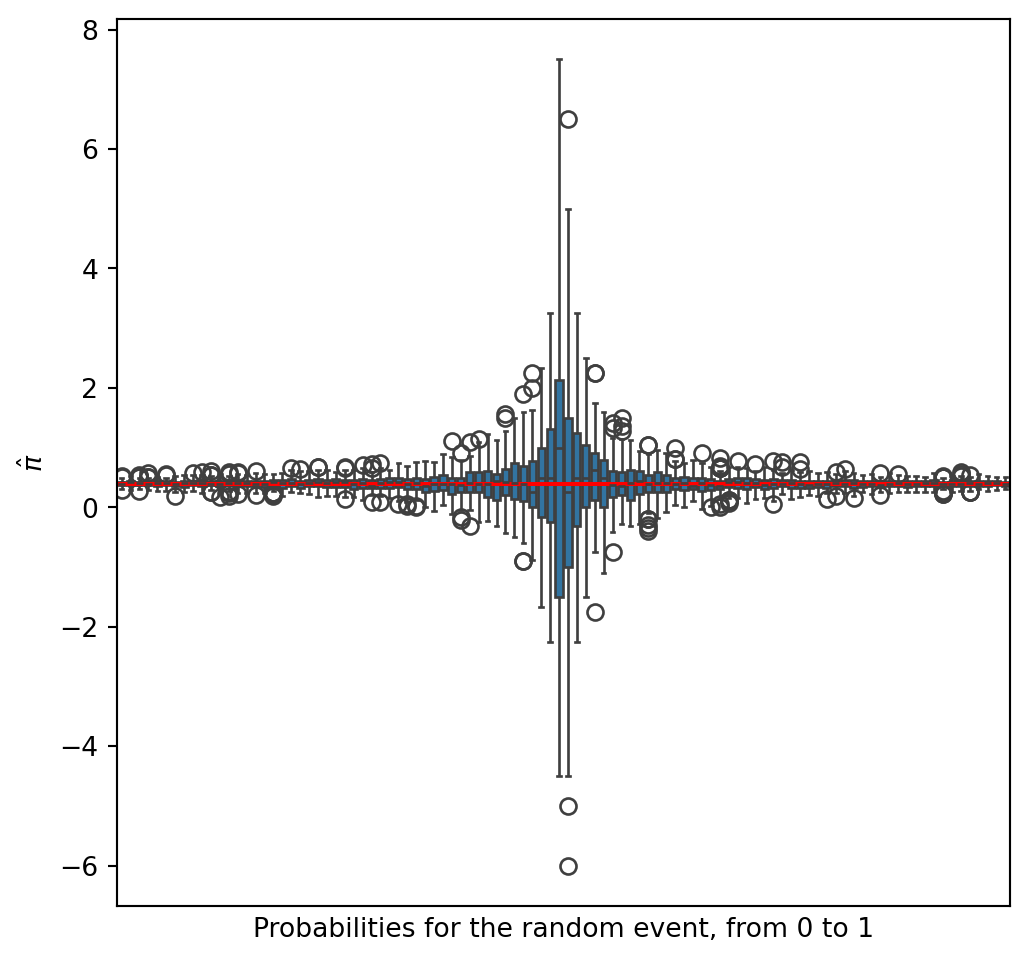
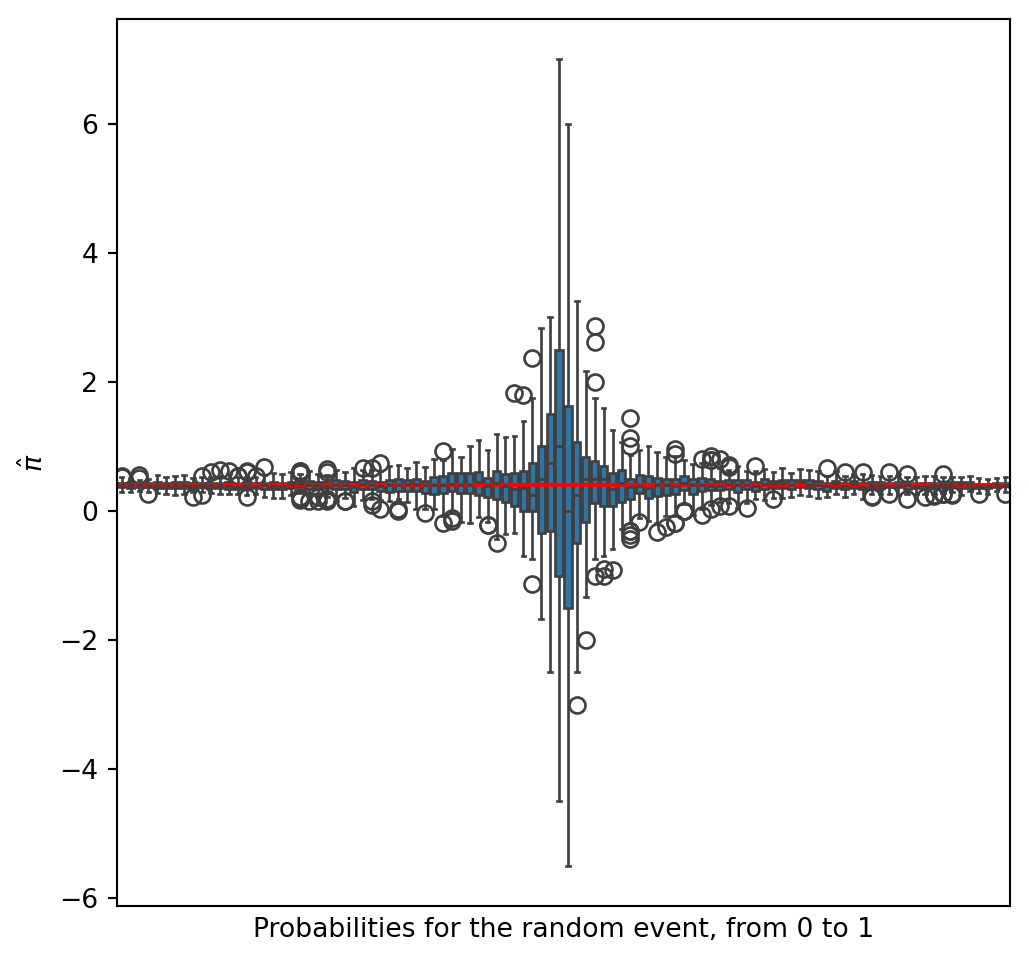
pb liste a puce

diff --git a/docs/posts/2026_01_10_ethics_randomness/index.html b/docs/posts/2026_01_10_ethics_randomness/index.html
@@ -457,7 +457,12 @@ window.Quarto = {
 <p>Randomized Responses are a category of techniques that use randomness to allow the respondent to answer with their true self, while having less or no pressure about answering. The paper i used to get introduced to this field is this review : <span class="citation" data-cites="PDFRandomizedResponse2025">(<a href="#ref-PDFRandomizedResponse2025" role="doc-biblioref"><span>“(<span>PDF</span>) <span>Randomized Response Techniques</span>: <span>A Systematic Review</span> from the <span>Pioneering Work</span> of <span>Warner</span> (1965) to the <span>Present</span>”</span> 2025</a>)</span>, but i am a strong beginner so do not take what i say for truth !</p>
 <p>I will focus on the most simple type of technique is the original idea from <span class="citation" data-cites="warnerRandomizedResponseSurvey1965">(<a href="#ref-warnerRandomizedResponseSurvey1965" role="doc-biblioref">Warner 1965</a>)</span> which propose a binary question to the surveyee.</p>
 <p>We are interested in quantifying the proportion of people belonging to groups A and B. The first step is to make the surveyees take a random experiment only they can observe, the binary random experiment will return either A or B, and the surveyee only has to answer to yes or no depending on wether the random outcome was his/her true group.</p>
-<p>We can do a little simulation : - n : number of surveyees (sample size) - p : parameter of the bernouilli random experiment - <span class="math inline">\(\pi\)</span> : true proportion of people belonging to the sensitive group</p>
+<p>We can do a little simulation :</p>
+<ul>
+<li>n : number of surveyees (sample size)</li>
+<li>p : parameter of the bernouilli random experiment</li>
+<li><span class="math inline">\(\pi\)</span> : true proportion of people belonging to the sensitive group</li>
+</ul>
 </section>
 <section id="stats-recap" class="level2">
 <h2 class="anchored" data-anchor-id="stats-recap">Stats recap</h2>
@@ -465,7 +470,7 @@ window.Quarto = {
 <p><span class="math display">\[P(X_i = 1) = \pi p + (1 - \pi)(1 - p)\]</span> <span class="math display">\[P(X_i = 0) = (1 - \pi)p +  + \pi(1 - p)\]</span></p>
 <p>Which leads to a estimation <span class="citation" data-cites="warnerRandomizedResponseSurvey1965">(see the the original paper from <a href="#ref-warnerRandomizedResponseSurvey1965" role="doc-biblioref">Warner 1965</a> details)</span> :</p>
 <p><span class="math display">\[\hat{\pi} = \frac{p-1}{2p-1} + \frac{n_1}{n(2p - 1)}\]</span></p>
-<div id="355c154d" class="cell" data-execution_count="1">
+<div id="ee974733" class="cell" data-execution_count="1">
 <div class="code-copy-outer-scaffold"><div class="sourceCode cell-code" id="cb1"><pre class="sourceCode python code-with-copy"><code class="sourceCode python"><span id="cb1-1"><a href="#cb1-1" aria-hidden="true" tabindex="-1"></a><span class="im">import</span> numpy <span class="im">as</span> np</span>
 <span id="cb1-2"><a href="#cb1-2" aria-hidden="true" tabindex="-1"></a><span class="im">import</span> matplotlib.pyplot <span class="im">as</span> plt</span>
 <span id="cb1-3"><a href="#cb1-3" aria-hidden="true" tabindex="-1"></a><span class="im">import</span> plotly.express <span class="im">as</span> px</span>
@@ -497,7 +502,7 @@ window.Quarto = {
 <span id="cb1-29"><a href="#cb1-29" aria-hidden="true" tabindex="-1"></a></span>
 <span id="cb1-30"><a href="#cb1-30" aria-hidden="true" tabindex="-1"></a>fig.suptitle(<span class="ss">f"Estimated pi : </span><span class="sc">{</span>pi_hat<span class="sc">:.3f}</span><span class="ss">"</span>)</span></code></pre></div><button title="Copy to Clipboard" class="code-copy-button"><i class="bi"></i></button></div>
 <div class="cell-output cell-output-display" data-execution_count="1">
-<pre><code>Text(0.5, 0.98, 'Estimated pi : 0.395')</code></pre>
+<pre><code>Text(0.5, 0.98, 'Estimated pi : 0.400')</code></pre>
 </div>
 <div class="cell-output cell-output-display">
 <div>
@@ -509,7 +514,7 @@ window.Quarto = {
 </div>
 <p>Oh nice ! We could see on one sample how out maximum likelyhood estimator allows us to recover the true proportion. Let’s see how does the random event probability affect the ability to recover <span class="math inline">\(\pi\)</span>.</p>
 <p>We will run multiple experiments with 100 surveyees.</p>
-<div id="559e5893" class="cell" data-execution_count="2">
+<div id="[phone redacted]" class="cell" data-execution_count="2">
 <div class="code-copy-outer-scaffold"><div class="sourceCode cell-code" id="cb3"><pre class="sourceCode python code-with-copy"><code class="sourceCode python"><span id="cb3-1"><a href="#cb3-1" aria-hidden="true" tabindex="-1"></a><span class="kw">def</span> get_pi_hat(p,n<span class="op">=</span><span class="dv">100</span>,pi<span class="op">=</span> <span class="dv">40</span><span class="op">/</span><span class="dv">100</span>)<span class="op">-&gt;</span><span class="bu">float</span>:</span>
 <span id="cb3-2"><a href="#cb3-2" aria-hidden="true" tabindex="-1"></a>    true_answers <span class="op">=</span> np.random.binomial(<span class="dv">1</span>, pi, n)</span>
 <span id="cb3-3"><a href="#cb3-3" aria-hidden="true" tabindex="-1"></a>    noise <span class="op">=</span> np.random.binomial(<span class="dv">1</span>, p, n)</span>
@@ -1065,111 +1070,112 @@ Warner, Stanley L. 1965. <span>“Randomized <span>Response</span>: <span>A Surv
 <span id="cb5-24"><a href="#cb5-24" aria-hidden="true" tabindex="-1"></a>The first step is to make the surveyees take a random experiment only they can observe, the binary random experiment will return either A or B, and the surveyee only has to answer to yes or no depending on wether the random outcome was his/her true group. </span>
 <span id="cb5-25"><a href="#cb5-25" aria-hidden="true" tabindex="-1"></a></span>
 <span id="cb5-26"><a href="#cb5-26" aria-hidden="true" tabindex="-1"></a>We can do a little simulation : </span>
-<span id="cb5-27"><a href="#cb5-27" aria-hidden="true" tabindex="-1"></a><span class="ss">- </span>n : number of surveyees (sample size)</span>
-<span id="cb5-28"><a href="#cb5-28" aria-hidden="true" tabindex="-1"></a><span class="ss">- </span>p : parameter of the bernouilli random experiment</span>
-<span id="cb5-29"><a href="#cb5-29" aria-hidden="true" tabindex="-1"></a><span class="ss">- </span>$\pi$ : true proportion of people belonging to the sensitive group</span>
-<span id="cb5-30"><a href="#cb5-30" aria-hidden="true" tabindex="-1"></a></span>
-<span id="cb5-31"><a href="#cb5-31" aria-hidden="true" tabindex="-1"></a><span class="fu">## Stats recap</span></span>
-<span id="cb5-32"><a href="#cb5-32" aria-hidden="true" tabindex="-1"></a></span>
-<span id="cb5-33"><a href="#cb5-33" aria-hidden="true" tabindex="-1"></a>Using the noise change the estimation and the probability of the answers of the surveyees is as follow : </span>
-<span id="cb5-34"><a href="#cb5-34" aria-hidden="true" tabindex="-1"></a></span>
-<span id="cb5-35"><a href="#cb5-35" aria-hidden="true" tabindex="-1"></a>$$P(X_i = 1) = \pi p + (1 - \pi)(1 - p)$$</span>
-<span id="cb5-36"><a href="#cb5-36" aria-hidden="true" tabindex="-1"></a>$$P(X_i = 0) = (1 - \pi)p +  + \pi(1 - p)$$</span>
-<span id="cb5-37"><a href="#cb5-37" aria-hidden="true" tabindex="-1"></a></span>
+<span id="cb5-27"><a href="#cb5-27" aria-hidden="true" tabindex="-1"></a></span>
+<span id="cb5-28"><a href="#cb5-28" aria-hidden="true" tabindex="-1"></a><span class="ss">- </span>n : number of surveyees (sample size)</span>
+<span id="cb5-29"><a href="#cb5-29" aria-hidden="true" tabindex="-1"></a><span class="ss">- </span>p : parameter of the bernouilli random experiment</span>
+<span id="cb5-30"><a href="#cb5-30" aria-hidden="true" tabindex="-1"></a><span class="ss">- </span>$\pi$ : true proportion of people belonging to the sensitive group</span>
+<span id="cb5-31"><a href="#cb5-31" aria-hidden="true" tabindex="-1"></a></span>
+<span id="cb5-32"><a href="#cb5-32" aria-hidden="true" tabindex="-1"></a><span class="fu">## Stats recap</span></span>
+<span id="cb5-33"><a href="#cb5-33" aria-hidden="true" tabindex="-1"></a></span>
+<span id="cb5-34"><a href="#cb5-34" aria-hidden="true" tabindex="-1"></a>Using the noise change the estimation and the probability of the answers of the surveyees is as follow : </span>
+<span id="cb5-35"><a href="#cb5-35" aria-hidden="true" tabindex="-1"></a></span>
+<span id="cb5-36"><a href="#cb5-36" aria-hidden="true" tabindex="-1"></a>$$P(X_i = 1) = \pi p + (1 - \pi)(1 - p)$$</span>
+<span id="cb5-37"><a href="#cb5-37" aria-hidden="true" tabindex="-1"></a>$$P(X_i = 0) = (1 - \pi)p +  + \pi(1 - p)$$</span>
 <span id="cb5-38"><a href="#cb5-38" aria-hidden="true" tabindex="-1"></a></span>
-<span id="cb5-39"><a href="#cb5-39" aria-hidden="true" tabindex="-1"></a>Which leads to a estimation <span class="co">[</span><span class="ot">see the the original paper from @warnerRandomizedResponseSurvey1965 details</span><span class="co">]</span> :</span>
-<span id="cb5-40"><a href="#cb5-40" aria-hidden="true" tabindex="-1"></a></span>
-<span id="cb5-41"><a href="#cb5-41" aria-hidden="true" tabindex="-1"></a>$$\hat{\pi} = \frac{p-1}{2p-1} + \frac{n_1}{n(2p - 1)}$$</span>
-<span id="cb5-42"><a href="#cb5-42" aria-hidden="true" tabindex="-1"></a></span>
+<span id="cb5-39"><a href="#cb5-39" aria-hidden="true" tabindex="-1"></a></span>
+<span id="cb5-40"><a href="#cb5-40" aria-hidden="true" tabindex="-1"></a>Which leads to a estimation <span class="co">[</span><span class="ot">see the the original paper from @warnerRandomizedResponseSurvey1965 details</span><span class="co">]</span> :</span>
+<span id="cb5-41"><a href="#cb5-41" aria-hidden="true" tabindex="-1"></a></span>
+<span id="cb5-42"><a href="#cb5-42" aria-hidden="true" tabindex="-1"></a>$$\hat{\pi} = \frac{p-1}{2p-1} + \frac{n_1}{n(2p - 1)}$$</span>
 <span id="cb5-43"><a href="#cb5-43" aria-hidden="true" tabindex="-1"></a></span>
-<span id="cb5-46"><a href="#cb5-46" aria-hidden="true" tabindex="-1"></a><span class="in">```{python}</span></span>
-<span id="cb5-47"><a href="#cb5-47" aria-hidden="true" tabindex="-1"></a><span class="im">import</span> numpy <span class="im">as</span> np</span>
-<span id="cb5-48"><a href="#cb5-48" aria-hidden="true" tabindex="-1"></a><span class="im">import</span> matplotlib.pyplot <span class="im">as</span> plt</span>
-<span id="cb5-49"><a href="#cb5-49" aria-hidden="true" tabindex="-1"></a><span class="im">import</span> plotly.express <span class="im">as</span> px</span>
-<span id="cb5-50"><a href="#cb5-50" aria-hidden="true" tabindex="-1"></a><span class="im">import</span> pandas <span class="im">as</span> pd</span>
-<span id="cb5-51"><a href="#cb5-51" aria-hidden="true" tabindex="-1"></a><span class="im">import</span> seaborn <span class="im">as</span> sns</span>
-<span id="cb5-52"><a href="#cb5-52" aria-hidden="true" tabindex="-1"></a>n <span class="op">=</span> <span class="dv">1000</span></span>
-<span id="cb5-53"><a href="#cb5-53" aria-hidden="true" tabindex="-1"></a>p <span class="op">=</span> <span class="dv">1</span><span class="op">/</span><span class="dv">6</span> <span class="co">#(dice roll)</span></span>
-<span id="cb5-54"><a href="#cb5-54" aria-hidden="true" tabindex="-1"></a>pi <span class="op">=</span> <span class="dv">40</span><span class="op">/</span><span class="dv">100</span></span>
-<span id="cb5-55"><a href="#cb5-55" aria-hidden="true" tabindex="-1"></a></span>
+<span id="cb5-44"><a href="#cb5-44" aria-hidden="true" tabindex="-1"></a></span>
+<span id="cb5-47"><a href="#cb5-47" aria-hidden="true" tabindex="-1"></a><span class="in">```{python}</span></span>
+<span id="cb5-48"><a href="#cb5-48" aria-hidden="true" tabindex="-1"></a><span class="im">import</span> numpy <span class="im">as</span> np</span>
+<span id="cb5-49"><a href="#cb5-49" aria-hidden="true" tabindex="-1"></a><span class="im">import</span> matplotlib.pyplot <span class="im">as</span> plt</span>
+<span id="cb5-50"><a href="#cb5-50" aria-hidden="true" tabindex="-1"></a><span class="im">import</span> plotly.express <span class="im">as</span> px</span>
+<span id="cb5-51"><a href="#cb5-51" aria-hidden="true" tabindex="-1"></a><span class="im">import</span> pandas <span class="im">as</span> pd</span>
+<span id="cb5-52"><a href="#cb5-52" aria-hidden="true" tabindex="-1"></a><span class="im">import</span> seaborn <span class="im">as</span> sns</span>
+<span id="cb5-53"><a href="#cb5-53" aria-hidden="true" tabindex="-1"></a>n <span class="op">=</span> <span class="dv">1000</span></span>
+<span id="cb5-54"><a href="#cb5-54" aria-hidden="true" tabindex="-1"></a>p <span class="op">=</span> <span class="dv">1</span><span class="op">/</span><span class="dv">6</span> <span class="co">#(dice roll)</span></span>
+<span id="cb5-55"><a href="#cb5-55" aria-hidden="true" tabindex="-1"></a>pi <span class="op">=</span> <span class="dv">40</span><span class="op">/</span><span class="dv">100</span></span>
 <span id="cb5-56"><a href="#cb5-56" aria-hidden="true" tabindex="-1"></a></span>
 <span id="cb5-57"><a href="#cb5-57" aria-hidden="true" tabindex="-1"></a></span>
-<span id="cb5-58"><a href="#cb5-58" aria-hidden="true" tabindex="-1"></a>true_answers <span class="op">=</span> np.random.binomial(<span class="dv">1</span>, pi, n)</span>
-<span id="cb5-59"><a href="#cb5-59" aria-hidden="true" tabindex="-1"></a>noise <span class="op">=</span> np.random.binomial(<span class="dv">1</span>, p, n) </span>
-<span id="cb5-60"><a href="#cb5-60" aria-hidden="true" tabindex="-1"></a></span>
-<span id="cb5-61"><a href="#cb5-61" aria-hidden="true" tabindex="-1"></a>final_answer <span class="op">=</span> (noise <span class="op">==</span> true_answers).astype(<span class="bu">int</span>)</span>
-<span id="cb5-62"><a href="#cb5-62" aria-hidden="true" tabindex="-1"></a>n1 <span class="op">=</span> final_answer.<span class="bu">sum</span>()</span>
-<span id="cb5-63"><a href="#cb5-63" aria-hidden="true" tabindex="-1"></a></span>
-<span id="cb5-64"><a href="#cb5-64" aria-hidden="true" tabindex="-1"></a>pi_hat <span class="op">=</span> (p<span class="op">-</span><span class="dv">1</span>)<span class="op">/</span>(<span class="dv">2</span><span class="op">*</span>p <span class="op">-</span> <span class="dv">1</span>) <span class="op">+</span> (n1)<span class="op">/</span>(n<span class="op">*</span>(<span class="dv">2</span><span class="op">*</span>p <span class="op">-</span> <span class="dv">1</span>))</span>
-<span id="cb5-65"><a href="#cb5-65" aria-hidden="true" tabindex="-1"></a></span>
+<span id="cb5-58"><a href="#cb5-58" aria-hidden="true" tabindex="-1"></a></span>
+<span id="cb5-59"><a href="#cb5-59" aria-hidden="true" tabindex="-1"></a>true_answers <span class="op">=</span> np.random.binomial(<span class="dv">1</span>, pi, n)</span>
+<span id="cb5-60"><a href="#cb5-60" aria-hidden="true" tabindex="-1"></a>noise <span class="op">=</span> np.random.binomial(<span class="dv">1</span>, p, n) </span>
+<span id="cb5-61"><a href="#cb5-61" aria-hidden="true" tabindex="-1"></a></span>
+<span id="cb5-62"><a href="#cb5-62" aria-hidden="true" tabindex="-1"></a>final_answer <span class="op">=</span> (noise <span class="op">==</span> true_answers).astype(<span class="bu">int</span>)</span>
+<span id="cb5-63"><a href="#cb5-63" aria-hidden="true" tabindex="-1"></a>n1 <span class="op">=</span> final_answer.<span class="bu">sum</span>()</span>
+<span id="cb5-64"><a href="#cb5-64" aria-hidden="true" tabindex="-1"></a></span>
+<span id="cb5-65"><a href="#cb5-65" aria-hidden="true" tabindex="-1"></a>pi_hat <span class="op">=</span> (p<span class="op">-</span><span class="dv">1</span>)<span class="op">/</span>(<span class="dv">2</span><span class="op">*</span>p <span class="op">-</span> <span class="dv">1</span>) <span class="op">+</span> (n1)<span class="op">/</span>(n<span class="op">*</span>(<span class="dv">2</span><span class="op">*</span>p <span class="op">-</span> <span class="dv">1</span>))</span>
 <span id="cb5-66"><a href="#cb5-66" aria-hidden="true" tabindex="-1"></a></span>
 <span id="cb5-67"><a href="#cb5-67" aria-hidden="true" tabindex="-1"></a></span>
-<span id="cb5-68"><a href="#cb5-68" aria-hidden="true" tabindex="-1"></a>fig, axs <span class="op">=</span> plt.subplots(nrows<span class="op">=</span> <span class="dv">1</span>, ncols<span class="op">=</span><span class="dv">3</span>, figsize <span class="op">=</span> (<span class="dv">9</span>, <span class="dv">5</span>))</span>
-<span id="cb5-69"><a href="#cb5-69" aria-hidden="true" tabindex="-1"></a>axs[<span class="dv">0</span>].hist(noise)</span>
-<span id="cb5-70"><a href="#cb5-70" aria-hidden="true" tabindex="-1"></a>axs[<span class="dv">0</span>].set_title(<span class="ss">f"Noise </span><span class="sc">{</span>noise<span class="sc">.</span>mean()<span class="sc">}</span><span class="ss">"</span>)</span>
-<span id="cb5-71"><a href="#cb5-71" aria-hidden="true" tabindex="-1"></a>axs[<span class="dv">1</span>].hist(true_answers)</span>
-<span id="cb5-72"><a href="#cb5-72" aria-hidden="true" tabindex="-1"></a>axs[<span class="dv">1</span>].set_title(<span class="ss">f"True answers : </span><span class="sc">{</span>true_answers<span class="sc">.</span>mean()<span class="sc">}</span><span class="ss">"</span>)</span>
-<span id="cb5-73"><a href="#cb5-73" aria-hidden="true" tabindex="-1"></a>axs[<span class="dv">2</span>].hist(final_answer)</span>
-<span id="cb5-74"><a href="#cb5-74" aria-hidden="true" tabindex="-1"></a>axs[<span class="dv">2</span>].set_title(<span class="ss">f"Final answers : </span><span class="sc">{</span>final_answer<span class="sc">.</span>mean()<span class="sc">}</span><span class="ss">"</span>)</span>
-<span id="cb5-75"><a href="#cb5-75" aria-hidden="true" tabindex="-1"></a></span>
-<span id="cb5-76"><a href="#cb5-76" aria-hidden="true" tabindex="-1"></a>fig.suptitle(<span class="ss">f"Estimated pi : </span><span class="sc">{</span>pi_hat<span class="sc">:.3f}</span><span class="ss">"</span>)</span>
-<span id="cb5-77"><a href="#cb5-77" aria-hidden="true" tabindex="-1"></a><span class="in">```</span></span>
-<span id="cb5-78"><a href="#cb5-78" aria-hidden="true" tabindex="-1"></a></span>
-<span id="cb5-79"><a href="#cb5-79" aria-hidden="true" tabindex="-1"></a>Oh nice ! </span>
-<span id="cb5-80"><a href="#cb5-80" aria-hidden="true" tabindex="-1"></a>We could see on one sample how out maximum likelyhood estimator allows us to recover the true proportion. </span>
-<span id="cb5-81"><a href="#cb5-81" aria-hidden="true" tabindex="-1"></a>Let's see how does the random event probability affect the ability to recover $\pi$.</span>
-<span id="cb5-82"><a href="#cb5-82" aria-hidden="true" tabindex="-1"></a></span>
-<span id="cb5-83"><a href="#cb5-83" aria-hidden="true" tabindex="-1"></a>We will run multiple experiments with 100 surveyees.</span>
-<span id="cb5-84"><a href="#cb5-84" aria-hidden="true" tabindex="-1"></a></span>
+<span id="cb5-68"><a href="#cb5-68" aria-hidden="true" tabindex="-1"></a></span>
+<span id="cb5-69"><a href="#cb5-69" aria-hidden="true" tabindex="-1"></a>fig, axs <span class="op">=</span> plt.subplots(nrows<span class="op">=</span> <span class="dv">1</span>, ncols<span class="op">=</span><span class="dv">3</span>, figsize <span class="op">=</span> (<span class="dv">9</span>, <span class="dv">5</span>))</span>
+<span id="cb5-70"><a href="#cb5-70" aria-hidden="true" tabindex="-1"></a>axs[<span class="dv">0</span>].hist(noise)</span>
+<span id="cb5-71"><a href="#cb5-71" aria-hidden="true" tabindex="-1"></a>axs[<span class="dv">0</span>].set_title(<span class="ss">f"Noise </span><span class="sc">{</span>noise<span class="sc">.</span>mean()<span class="sc">}</span><span class="ss">"</span>)</span>
+<span id="cb5-72"><a href="#cb5-72" aria-hidden="true" tabindex="-1"></a>axs[<span class="dv">1</span>].hist(true_answers)</span>
+<span id="cb5-73"><a href="#cb5-73" aria-hidden="true" tabindex="-1"></a>axs[<span class="dv">1</span>].set_title(<span class="ss">f"True answers : </span><span class="sc">{</span>true_answers<span class="sc">.</span>mean()<span class="sc">}</span><span class="ss">"</span>)</span>
+<span id="cb5-74"><a href="#cb5-74" aria-hidden="true" tabindex="-1"></a>axs[<span class="dv">2</span>].hist(final_answer)</span>
+<span id="cb5-75"><a href="#cb5-75" aria-hidden="true" tabindex="-1"></a>axs[<span class="dv">2</span>].set_title(<span class="ss">f"Final answers : </span><span class="sc">{</span>final_answer<span class="sc">.</span>mean()<span class="sc">}</span><span class="ss">"</span>)</span>
+<span id="cb5-76"><a href="#cb5-76" aria-hidden="true" tabindex="-1"></a></span>
+<span id="cb5-77"><a href="#cb5-77" aria-hidden="true" tabindex="-1"></a>fig.suptitle(<span class="ss">f"Estimated pi : </span><span class="sc">{</span>pi_hat<span class="sc">:.3f}</span><span class="ss">"</span>)</span>
+<span id="cb5-78"><a href="#cb5-78" aria-hidden="true" tabindex="-1"></a><span class="in">```</span></span>
+<span id="cb5-79"><a href="#cb5-79" aria-hidden="true" tabindex="-1"></a></span>
+<span id="cb5-80"><a href="#cb5-80" aria-hidden="true" tabindex="-1"></a>Oh nice ! </span>
+<span id="cb5-81"><a href="#cb5-81" aria-hidden="true" tabindex="-1"></a>We could see on one sample how out maximum likelyhood estimator allows us to recover the true proportion. </span>
+<span id="cb5-82"><a href="#cb5-82" aria-hidden="true" tabindex="-1"></a>Let's see how does the random event probability affect the ability to recover $\pi$.</span>
+<span id="cb5-83"><a href="#cb5-83" aria-hidden="true" tabindex="-1"></a></span>
+<span id="cb5-84"><a href="#cb5-84" aria-hidden="true" tabindex="-1"></a>We will run multiple experiments with 100 surveyees.</span>
 <span id="cb5-85"><a href="#cb5-85" aria-hidden="true" tabindex="-1"></a></span>
-<span id="cb5-88"><a href="#cb5-88" aria-hidden="true" tabindex="-1"></a><span class="in">```{python}</span></span>
-<span id="cb5-89"><a href="#cb5-89" aria-hidden="true" tabindex="-1"></a><span class="co">#| code-fold: false</span></span>
-<span id="cb5-90"><a href="#cb5-90" aria-hidden="true" tabindex="-1"></a><span class="kw">def</span> get_pi_hat(p,n<span class="op">=</span><span class="dv">100</span>,pi<span class="op">=</span> <span class="dv">40</span><span class="op">/</span><span class="dv">100</span>)<span class="op">-&gt;</span><span class="bu">float</span>:</span>
-<span id="cb5-91"><a href="#cb5-91" aria-hidden="true" tabindex="-1"></a>    true_answers <span class="op">=</span> np.random.binomial(<span class="dv">1</span>, pi, n)</span>
-<span id="cb5-92"><a href="#cb5-92" aria-hidden="true" tabindex="-1"></a>    noise <span class="op">=</span> np.random.binomial(<span class="dv">1</span>, p, n)</span>
-<span id="cb5-93"><a href="#cb5-93" aria-hidden="true" tabindex="-1"></a></span>
-<span id="cb5-94"><a href="#cb5-94" aria-hidden="true" tabindex="-1"></a>    final_answer <span class="op">=</span> (noise <span class="op">==</span> true_answers).astype(<span class="bu">int</span>)</span>
-<span id="cb5-95"><a href="#cb5-95" aria-hidden="true" tabindex="-1"></a>    n1 <span class="op">=</span> final_answer.<span class="bu">sum</span>()</span>
-<span id="cb5-96"><a href="#cb5-96" aria-hidden="true" tabindex="-1"></a></span>
-<span id="cb5-97"><a href="#cb5-97" aria-hidden="true" tabindex="-1"></a>    pi_hat <span class="op">=</span> (p<span class="op">-</span><span class="dv">1</span>)<span class="op">/</span>(<span class="dv">2</span><span class="op">*</span>p <span class="op">-</span> <span class="dv">1</span>) <span class="op">+</span> (n1)<span class="op">/</span>(n<span class="op">*</span>(<span class="dv">2</span><span class="op">*</span>p <span class="op">-</span> <span class="dv">1</span>))</span>
-<span id="cb5-98"><a href="#cb5-98" aria-hidden="true" tabindex="-1"></a>    <span class="cf">return</span> pi_hat</span>
-<span id="cb5-99"><a href="#cb5-99" aria-hidden="true" tabindex="-1"></a></span>
-<span id="cb5-100"><a href="#cb5-100" aria-hidden="true" tabindex="-1"></a>num_ps <span class="op">=</span> <span class="dv">100</span></span>
-<span id="cb5-101"><a href="#cb5-101" aria-hidden="true" tabindex="-1"></a>mc_iter <span class="op">=</span>  <span class="dv">100</span></span>
-<span id="cb5-102"><a href="#cb5-102" aria-hidden="true" tabindex="-1"></a>ps <span class="op">=</span> np.zeros(num_ps <span class="op">*</span> mc_iter)</span>
-<span id="cb5-103"><a href="#cb5-103" aria-hidden="true" tabindex="-1"></a>pihats <span class="op">=</span> np.zeros(num_ps <span class="op">*</span> mc_iter)</span>
-<span id="cb5-104"><a href="#cb5-104" aria-hidden="true" tabindex="-1"></a>pi <span class="op">=</span> <span class="dv">40</span><span class="op">/</span><span class="dv">100</span></span>
-<span id="cb5-105"><a href="#cb5-105" aria-hidden="true" tabindex="-1"></a>i <span class="op">=</span> <span class="dv">0</span></span>
-<span id="cb5-106"><a href="#cb5-106" aria-hidden="true" tabindex="-1"></a><span class="cf">for</span> p <span class="kw">in</span> np.linspace(<span class="dv">0</span>, <span class="dv">1</span>, num_ps).<span class="bu">round</span>(<span class="dv">2</span>):</span>
-<span id="cb5-107"><a href="#cb5-107" aria-hidden="true" tabindex="-1"></a>    <span class="cf">for</span> mc <span class="kw">in</span> <span class="bu">range</span>(mc_iter):</span>
-<span id="cb5-108"><a href="#cb5-108" aria-hidden="true" tabindex="-1"></a>        pihats[i] <span class="op">=</span> get_pi_hat(p, pi <span class="op">=</span> pi)</span>
-<span id="cb5-109"><a href="#cb5-109" aria-hidden="true" tabindex="-1"></a>        ps[i] <span class="op">=</span> p</span>
-<span id="cb5-110"><a href="#cb5-110" aria-hidden="true" tabindex="-1"></a>        i<span class="op">+=</span> <span class="dv">1</span></span>
-<span id="cb5-111"><a href="#cb5-111" aria-hidden="true" tabindex="-1"></a></span>
-<span id="cb5-112"><a href="#cb5-112" aria-hidden="true" tabindex="-1"></a>df<span class="op">=</span> pd.DataFrame({</span>
-<span id="cb5-113"><a href="#cb5-113" aria-hidden="true" tabindex="-1"></a>    <span class="st">"ps"</span> : ps,</span>
-<span id="cb5-114"><a href="#cb5-114" aria-hidden="true" tabindex="-1"></a>    <span class="st">"pihats"</span> : pihats</span>
-<span id="cb5-115"><a href="#cb5-115" aria-hidden="true" tabindex="-1"></a>})</span>
-<span id="cb5-116"><a href="#cb5-116" aria-hidden="true" tabindex="-1"></a></span>
-<span id="cb5-117"><a href="#cb5-117" aria-hidden="true" tabindex="-1"></a>plt.figure(figsize<span class="op">=</span>(<span class="dv">6</span>,<span class="dv">6</span>))</span>
-<span id="cb5-118"><a href="#cb5-118" aria-hidden="true" tabindex="-1"></a>sns.boxplot(df, x<span class="op">=</span><span class="st">"ps"</span>, y<span class="op">=</span><span class="st">"pihats"</span>)</span>
-<span id="cb5-119"><a href="#cb5-119" aria-hidden="true" tabindex="-1"></a>plt.axhline(pi, c<span class="op">=</span><span class="st">"red"</span>)</span>
-<span id="cb5-120"><a href="#cb5-120" aria-hidden="true" tabindex="-1"></a>plt.xlabel(<span class="st">"Probabilities for the random event, from 0 to 1"</span>)</span>
-<span id="cb5-121"><a href="#cb5-121" aria-hidden="true" tabindex="-1"></a>plt.xticks([])</span>
-<span id="cb5-122"><a href="#cb5-122" aria-hidden="true" tabindex="-1"></a>plt.ylabel(<span class="st">"$</span><span class="ch">\\</span><span class="st">hat{</span><span class="ch">\\</span><span class="st">pi}$"</span>)</span>
-<span id="cb5-123"><a href="#cb5-123" aria-hidden="true" tabindex="-1"></a><span class="in">```</span></span>
-<span id="cb5-124"><a href="#cb5-124" aria-hidden="true" tabindex="-1"></a></span>
+<span id="cb5-86"><a href="#cb5-86" aria-hidden="true" tabindex="-1"></a></span>
+<span id="cb5-89"><a href="#cb5-89" aria-hidden="true" tabindex="-1"></a><span class="in">```{python}</span></span>
+<span id="cb5-90"><a href="#cb5-90" aria-hidden="true" tabindex="-1"></a><span class="co">#| code-fold: false</span></span>
+<span id="cb5-91"><a href="#cb5-91" aria-hidden="true" tabindex="-1"></a><span class="kw">def</span> get_pi_hat(p,n<span class="op">=</span><span class="dv">100</span>,pi<span class="op">=</span> <span class="dv">40</span><span class="op">/</span><span class="dv">100</span>)<span class="op">-&gt;</span><span class="bu">float</span>:</span>
+<span id="cb5-92"><a href="#cb5-92" aria-hidden="true" tabindex="-1"></a>    true_answers <span class="op">=</span> np.random.binomial(<span class="dv">1</span>, pi, n)</span>
+<span id="cb5-93"><a href="#cb5-93" aria-hidden="true" tabindex="-1"></a>    noise <span class="op">=</span> np.random.binomial(<span class="dv">1</span>, p, n)</span>
+<span id="cb5-94"><a href="#cb5-94" aria-hidden="true" tabindex="-1"></a></span>
+<span id="cb5-95"><a href="#cb5-95" aria-hidden="true" tabindex="-1"></a>    final_answer <span class="op">=</span> (noise <span class="op">==</span> true_answers).astype(<span class="bu">int</span>)</span>
+<span id="cb5-96"><a href="#cb5-96" aria-hidden="true" tabindex="-1"></a>    n1 <span class="op">=</span> final_answer.<span class="bu">sum</span>()</span>
+<span id="cb5-97"><a href="#cb5-97" aria-hidden="true" tabindex="-1"></a></span>
+<span id="cb5-98"><a href="#cb5-98" aria-hidden="true" tabindex="-1"></a>    pi_hat <span class="op">=</span> (p<span class="op">-</span><span class="dv">1</span>)<span class="op">/</span>(<span class="dv">2</span><span class="op">*</span>p <span class="op">-</span> <span class="dv">1</span>) <span class="op">+</span> (n1)<span class="op">/</span>(n<span class="op">*</span>(<span class="dv">2</span><span class="op">*</span>p <span class="op">-</span> <span class="dv">1</span>))</span>
+<span id="cb5-99"><a href="#cb5-99" aria-hidden="true" tabindex="-1"></a>    <span class="cf">return</span> pi_hat</span>
+<span id="cb5-100"><a href="#cb5-100" aria-hidden="true" tabindex="-1"></a></span>
+<span id="cb5-101"><a href="#cb5-101" aria-hidden="true" tabindex="-1"></a>num_ps <span class="op">=</span> <span class="dv">100</span></span>
+<span id="cb5-102"><a href="#cb5-102" aria-hidden="true" tabindex="-1"></a>mc_iter <span class="op">=</span>  <span class="dv">100</span></span>
+<span id="cb5-103"><a href="#cb5-103" aria-hidden="true" tabindex="-1"></a>ps <span class="op">=</span> np.zeros(num_ps <span class="op">*</span> mc_iter)</span>
+<span id="cb5-104"><a href="#cb5-104" aria-hidden="true" tabindex="-1"></a>pihats <span class="op">=</span> np.zeros(num_ps <span class="op">*</span> mc_iter)</span>
+<span id="cb5-105"><a href="#cb5-105" aria-hidden="true" tabindex="-1"></a>pi <span class="op">=</span> <span class="dv">40</span><span class="op">/</span><span class="dv">100</span></span>
+<span id="cb5-106"><a href="#cb5-106" aria-hidden="true" tabindex="-1"></a>i <span class="op">=</span> <span class="dv">0</span></span>
+<span id="cb5-107"><a href="#cb5-107" aria-hidden="true" tabindex="-1"></a><span class="cf">for</span> p <span class="kw">in</span> np.linspace(<span class="dv">0</span>, <span class="dv">1</span>, num_ps).<span class="bu">round</span>(<span class="dv">2</span>):</span>
+<span id="cb5-108"><a href="#cb5-108" aria-hidden="true" tabindex="-1"></a>    <span class="cf">for</span> mc <span class="kw">in</span> <span class="bu">range</span>(mc_iter):</span>
+<span id="cb5-109"><a href="#cb5-109" aria-hidden="true" tabindex="-1"></a>        pihats[i] <span class="op">=</span> get_pi_hat(p, pi <span class="op">=</span> pi)</span>
+<span id="cb5-110"><a href="#cb5-110" aria-hidden="true" tabindex="-1"></a>        ps[i] <span class="op">=</span> p</span>
+<span id="cb5-111"><a href="#cb5-111" aria-hidden="true" tabindex="-1"></a>        i<span class="op">+=</span> <span class="dv">1</span></span>
+<span id="cb5-112"><a href="#cb5-112" aria-hidden="true" tabindex="-1"></a></span>
+<span id="cb5-113"><a href="#cb5-113" aria-hidden="true" tabindex="-1"></a>df<span class="op">=</span> pd.DataFrame({</span>
+<span id="cb5-114"><a href="#cb5-114" aria-hidden="true" tabindex="-1"></a>    <span class="st">"ps"</span> : ps,</span>
+<span id="cb5-115"><a href="#cb5-115" aria-hidden="true" tabindex="-1"></a>    <span class="st">"pihats"</span> : pihats</span>
+<span id="cb5-116"><a href="#cb5-116" aria-hidden="true" tabindex="-1"></a>})</span>
+<span id="cb5-117"><a href="#cb5-117" aria-hidden="true" tabindex="-1"></a></span>
+<span id="cb5-118"><a href="#cb5-118" aria-hidden="true" tabindex="-1"></a>plt.figure(figsize<span class="op">=</span>(<span class="dv">6</span>,<span class="dv">6</span>))</span>
+<span id="cb5-119"><a href="#cb5-119" aria-hidden="true" tabindex="-1"></a>sns.boxplot(df, x<span class="op">=</span><span class="st">"ps"</span>, y<span class="op">=</span><span class="st">"pihats"</span>)</span>
+<span id="cb5-120"><a href="#cb5-120" aria-hidden="true" tabindex="-1"></a>plt.axhline(pi, c<span class="op">=</span><span class="st">"red"</span>)</span>
+<span id="cb5-121"><a href="#cb5-121" aria-hidden="true" tabindex="-1"></a>plt.xlabel(<span class="st">"Probabilities for the random event, from 0 to 1"</span>)</span>
+<span id="cb5-122"><a href="#cb5-122" aria-hidden="true" tabindex="-1"></a>plt.xticks([])</span>
+<span id="cb5-123"><a href="#cb5-123" aria-hidden="true" tabindex="-1"></a>plt.ylabel(<span class="st">"$</span><span class="ch">\\</span><span class="st">hat{</span><span class="ch">\\</span><span class="st">pi}$"</span>)</span>
+<span id="cb5-124"><a href="#cb5-124" aria-hidden="true" tabindex="-1"></a><span class="in">```</span></span>
 <span id="cb5-125"><a href="#cb5-125" aria-hidden="true" tabindex="-1"></a></span>
 <span id="cb5-126"><a href="#cb5-126" aria-hidden="true" tabindex="-1"></a></span>
-<span id="cb5-127"><a href="#cb5-127" aria-hidden="true" tabindex="-1"></a>We can see that the estimator is centered around the true value of $\pi$, but the closer we are to $50\%$ the bigger the variance, indeed when the random event sucess probability the surveyee uses to answer is equal to $50\%$, the answer provides no information at all. </span>
-<span id="cb5-128"><a href="#cb5-128" aria-hidden="true" tabindex="-1"></a></span>
-<span id="cb5-129"><a href="#cb5-129" aria-hidden="true" tabindex="-1"></a>So, the closer p is to 0 or 1, the better the estimation, but it will be more likely for the surveyee to answer with bad faith, the choice of p is a trade off between statistical efficiency and peoples's trust.</span>
-<span id="cb5-130"><a href="#cb5-130" aria-hidden="true" tabindex="-1"></a></span>
+<span id="cb5-127"><a href="#cb5-127" aria-hidden="true" tabindex="-1"></a></span>
+<span id="cb5-128"><a href="#cb5-128" aria-hidden="true" tabindex="-1"></a>We can see that the estimator is centered around the true value of $\pi$, but the closer we are to $50\%$ the bigger the variance, indeed when the random event sucess probability the surveyee uses to answer is equal to $50\%$, the answer provides no information at all. </span>
+<span id="cb5-129"><a href="#cb5-129" aria-hidden="true" tabindex="-1"></a></span>
+<span id="cb5-130"><a href="#cb5-130" aria-hidden="true" tabindex="-1"></a>So, the closer p is to 0 or 1, the better the estimation, but it will be more likely for the surveyee to answer with bad faith, the choice of p is a trade off between statistical efficiency and peoples's trust.</span>
 <span id="cb5-131"><a href="#cb5-131" aria-hidden="true" tabindex="-1"></a></span>
-<span id="cb5-132"><a href="#cb5-132" aria-hidden="true" tabindex="-1"></a><span class="fu">## Conclusion </span></span>
-<span id="cb5-133"><a href="#cb5-133" aria-hidden="true" tabindex="-1"></a> </span>
-<span id="cb5-134"><a href="#cb5-134" aria-hidden="true" tabindex="-1"></a>It was short and small, but it was very fun looking at this problem ! </span>
-<span id="cb5-135"><a href="#cb5-135" aria-hidden="true" tabindex="-1"></a>There are more recent extensions to overcome weaknesses of this methods, the field of randomized responses is very rich and i just wanted to share that this field even exists :) See you ! </span>
+<span id="cb5-132"><a href="#cb5-132" aria-hidden="true" tabindex="-1"></a></span>
+<span id="cb5-133"><a href="#cb5-133" aria-hidden="true" tabindex="-1"></a><span class="fu">## Conclusion </span></span>
+<span id="cb5-134"><a href="#cb5-134" aria-hidden="true" tabindex="-1"></a> </span>
+<span id="cb5-135"><a href="#cb5-135" aria-hidden="true" tabindex="-1"></a>It was short and small, but it was very fun looking at this problem ! </span>
+<span id="cb5-136"><a href="#cb5-136" aria-hidden="true" tabindex="-1"></a>There are more recent extensions to overcome weaknesses of this methods, the field of randomized responses is very rich and i just wanted to share that this field even exists :) See you ! </span>
 </code></pre></div><button title="Copy to Clipboard" class="code-copy-button" data-in-quarto-modal=""><i class="bi"></i></button></div>
 </div></div></div></div></div>
 </div> <!-- /content -->

diff --git a/docs/index.html b/docs/index.html
@@ -442,7 +442,7 @@ window.Quarto = {
 
 <div class="quarto-listing quarto-listing-container-default" id="listing-listing">
 <div class="list quarto-listing-default">
-<div class="quarto-post image-right" data-index="0" data-categories="UHJvYmFiaWxpdGllcyUyQ0VORw==" data-listing-date-sort="1767999600000" data-listing-file-modified-sort="1769449574734" data-listing-date-modified-sort="NaN" data-listing-reading-time-sort="4" data-listing-word-count-sort="731">
+<div class="quarto-post image-right" data-index="0" data-categories="UHJvYmFiaWxpdGllcyUyQ0VORw==" data-listing-date-sort="1767999600000" data-listing-file-modified-sort="1769452075620" data-listing-date-modified-sort="NaN" data-listing-reading-time-sort="4" data-listing-word-count-sort="731">
 <div class="thumbnail"><a href="./posts/2026_01_10_ethics_randomness/index.html" class="no-external">
 
 <img loading="lazy" src="./posts/2026_01_10_ethics_randomness/image.png" class="thumbnail-image">